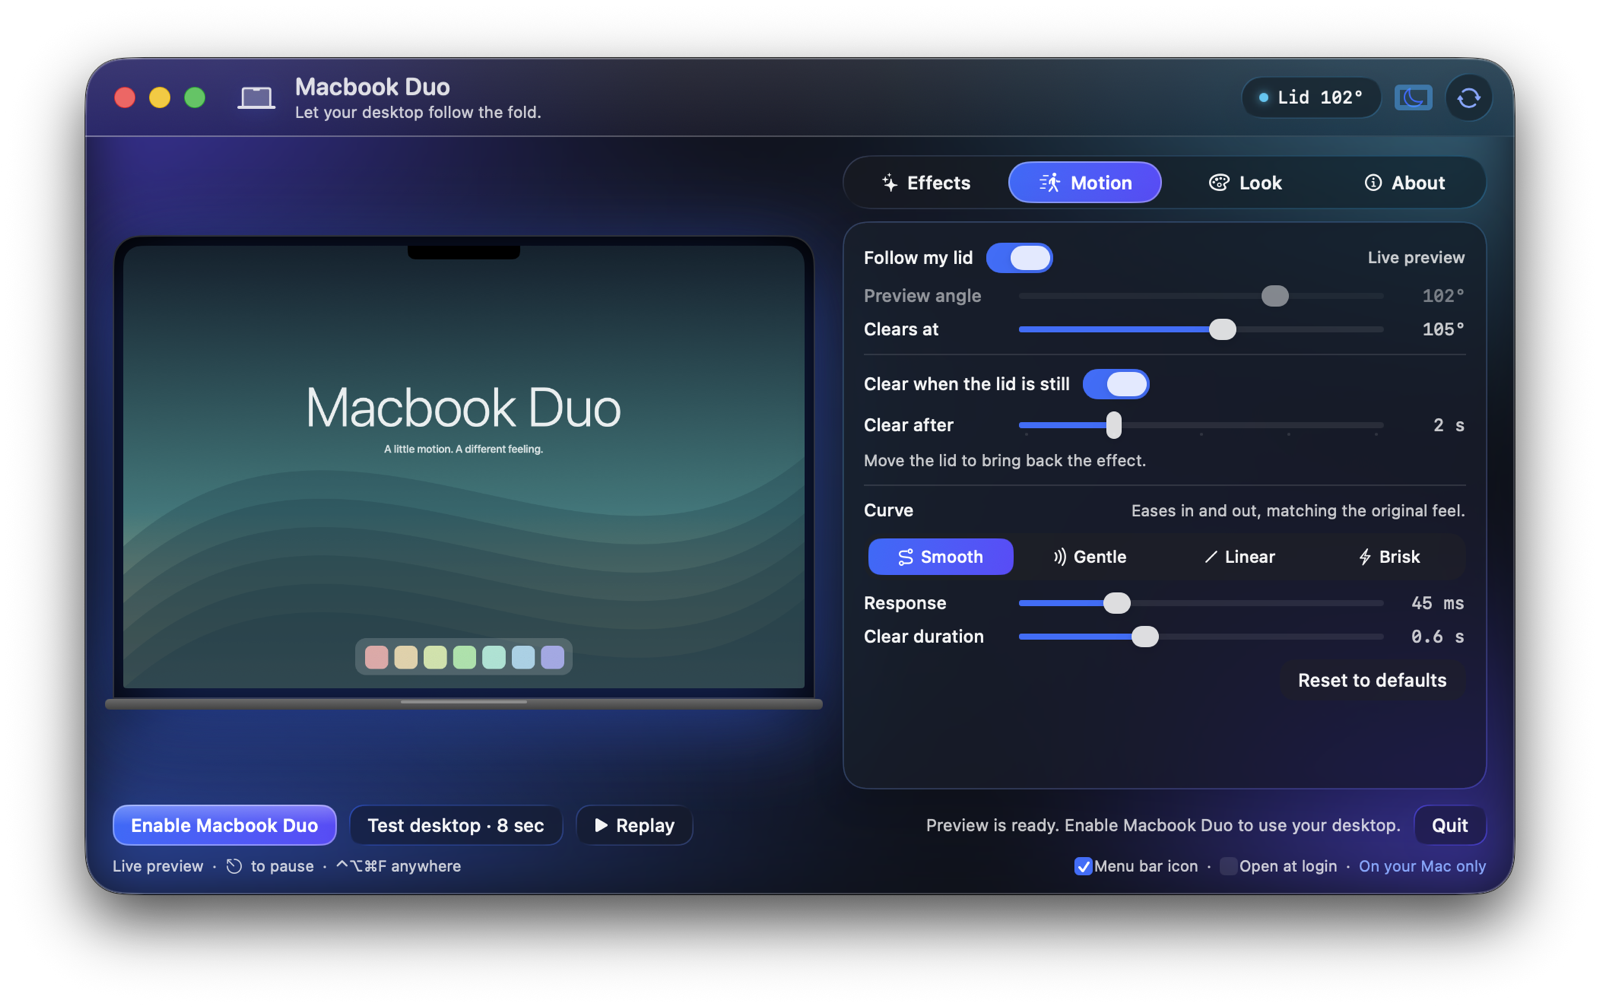
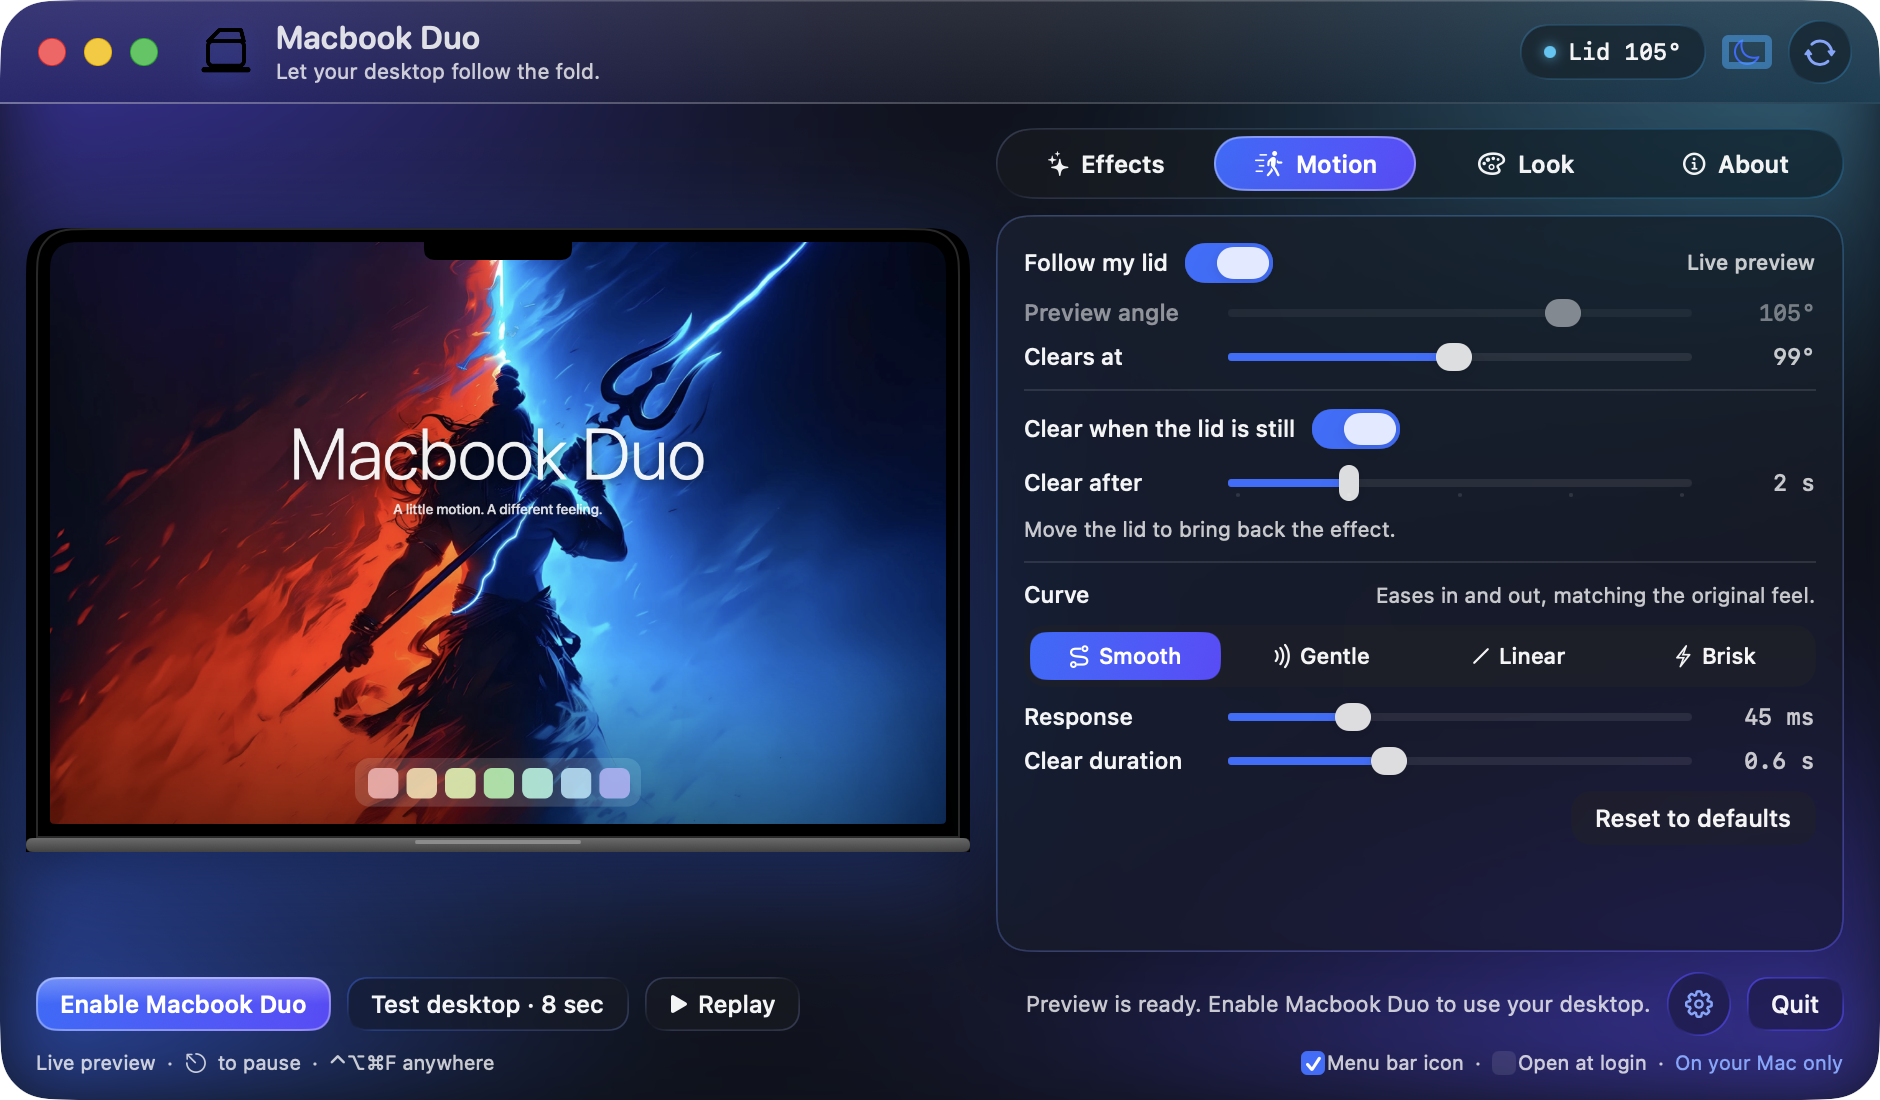
docs: README window images from the wallpaper build
scripts/make-window-shots.sh captures the settings window on each page from
the direct-download build, at 2x with no background, and the four README
images are regenerated with the bundled wallpaper.

diff --git a/docs/DEVELOPMENT.md b/docs/DEVELOPMENT.md
@@ -148,7 +148,7 @@ The remaining diagnostics exercise the real app and the updater:
 Package.swift             SwiftPM manifest: FoldCore library, MacbookDuo app, two test targets
 build.sh                  Builds, strips, bundles and signs "Macbook Duo.app"
 scripts/                  package.sh (DMG, ZIP, checksums), release.sh (GitHub release), make-icon.swift (brand assets),
-                          appstore.sh (validate, export, upload), appstore-screenshots.sh (window screenshots), appstore-previews.sh (app previews, effect screenshots) and make-scroll-frames.sh (the website's scroll-to-close Iris frames)
+                          appstore.sh (validate, export, upload), appstore-screenshots.sh (window screenshots), appstore-previews.sh (app previews, effect screenshots) make-scroll-frames.sh (the website's scroll-to-close Iris frames) and make-window-shots.sh (the README's window images)
 Resources/                App icon (.icns, .png) and the menu-bar template mark
 Sources/FoldCore/         Platform-independent core with no AppKit or Metal dependency
   Effects/                FoldEffect catalog (ids, shader indices, titles, summaries) and EffectOptions with FoldCurve
